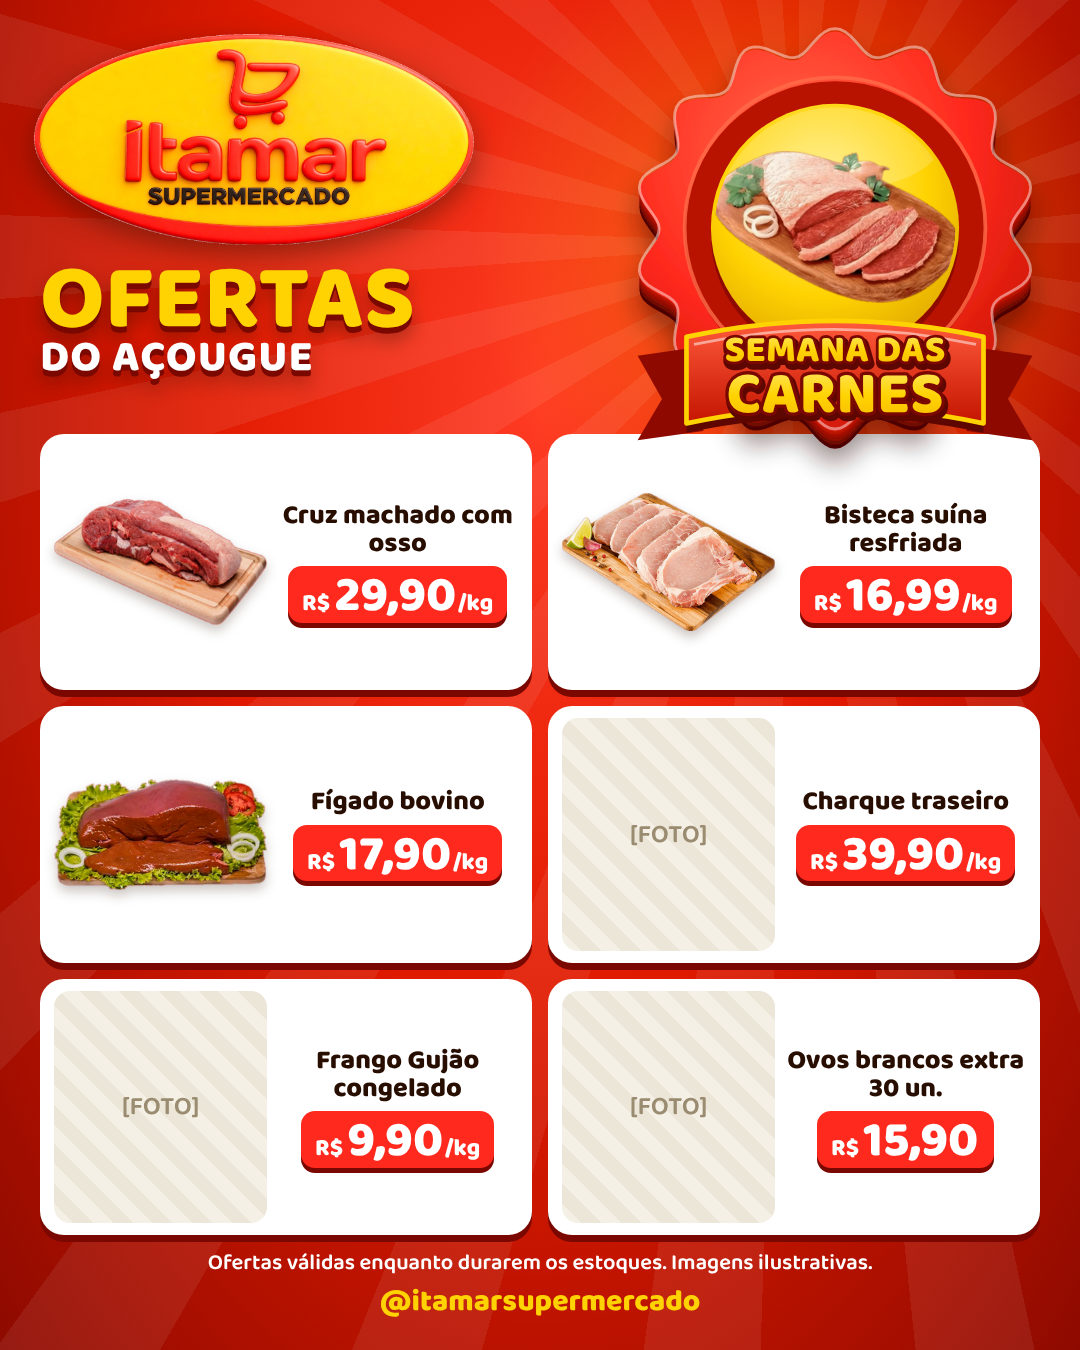
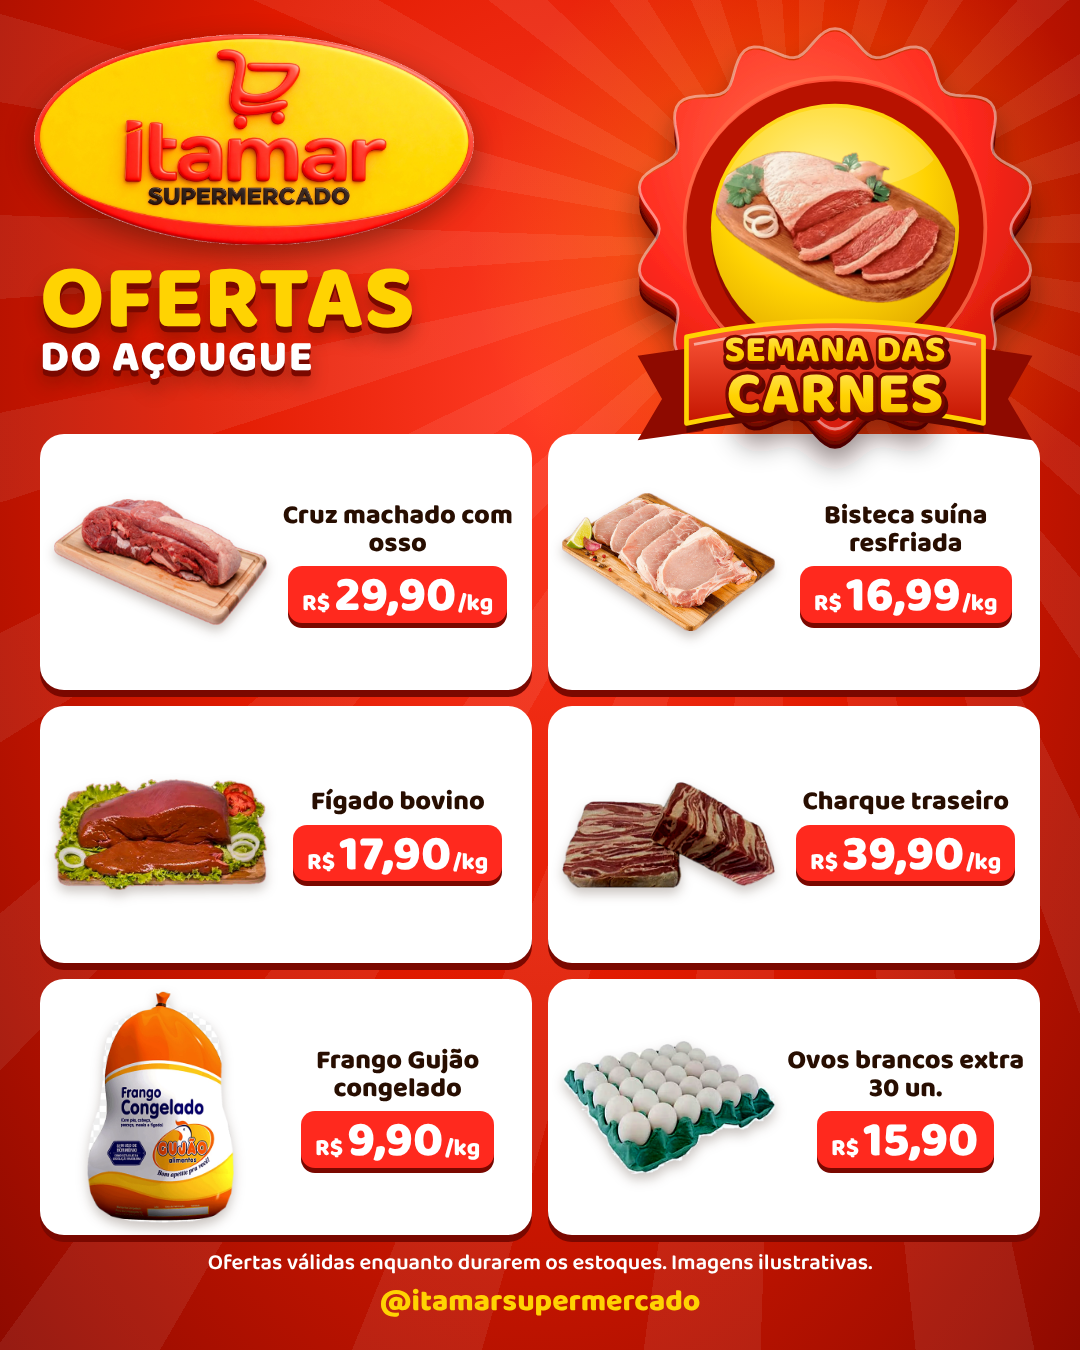
Itamar açougue: fotos de charque, frango Gujão e ovos recortadas e aplicadas
Claude-Session: https://claude.ai/code/session_01RAcsiCUqH9iCNBekL3L4L7

Changed region(s): [[0.5194, 0.5289, 0.7333, 0.9333], [0.0306, 0.7156, 0.2444, 0.9333]]

diff --git a/clientes/itamar-supermercado/entregas/2026-11-19-acougue/card-acougue.html b/clientes/itamar-supermercado/entregas/2026-11-19-acougue/card-acougue.html
@@ -56,8 +56,8 @@ body{width:1080px;height:1350px;font-family:"Baloo 2",sans-serif;color:var(--mar
 <div class="p"><div class="foto" style="background-image:url(../../fotos/produtos/acougue/cruz-machado-com-osso.png)"></div><div class="info"><div class="nome">Cruz machado com osso</div><div class="preco"><small>R$</small>29,90<span>/kg</span></div></div></div>
 <div class="p"><div class="foto" style="background-image:url(../../fotos/produtos/acougue/bisteca-suina.png)"></div><div class="info"><div class="nome">Bisteca suína resfriada</div><div class="preco"><small>R$</small>16,99<span>/kg</span></div></div></div>
 <div class="p"><div class="foto" style="background-image:url(../../fotos/produtos/acougue/figado-bovino.png)"></div><div class="info"><div class="nome">Fígado bovino</div><div class="preco"><small>R$</small>17,90<span>/kg</span></div></div></div>
-<div class="p"><div class="foto vazio">[FOTO]</div><div class="info"><div class="nome">Charque traseiro</div><div class="preco"><small>R$</small>39,90<span>/kg</span></div></div></div>
-<div class="p"><div class="foto vazio">[FOTO]</div><div class="info"><div class="nome">Frango Gujão congelado</div><div class="preco"><small>R$</small>9,90<span>/kg</span></div></div></div>
-<div class="p"><div class="foto vazio">[FOTO]</div><div class="info"><div class="nome">Ovos brancos extra 30&nbsp;un.</div><div class="preco"><small>R$</small>15,90<span></span></div></div></div>
+<div class="p"><div class="foto" style="background-image:url(../../fotos/produtos/acougue/charque-traseiro.png)"></div><div class="info"><div class="nome">Charque traseiro</div><div class="preco"><small>R$</small>39,90<span>/kg</span></div></div></div>
+<div class="p"><div class="foto" style="background-image:url(../../fotos/produtos/acougue/frango-gujao-congelado.png)"></div><div class="info"><div class="nome">Frango Gujão congelado</div><div class="preco"><small>R$</small>9,90<span>/kg</span></div></div></div>
+<div class="p"><div class="foto" style="background-image:url(../../fotos/produtos/acougue/ovos-brancos-30un.png)"></div><div class="info"><div class="nome">Ovos brancos extra 30&nbsp;un.</div><div class="preco"><small>R$</small>15,90<span></span></div></div></div>
 </div>
 <p class="rod">Ofertas válidas enquanto durarem os estoques. Imagens ilustrativas.<br><b class="arroba">@itamarsupermercado</b></p>
